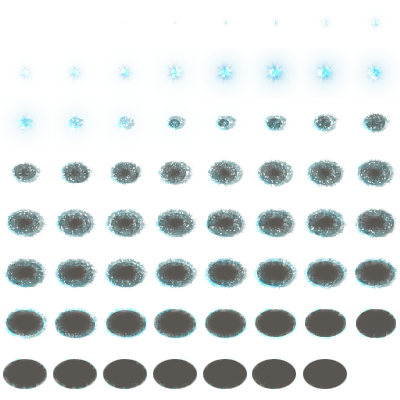
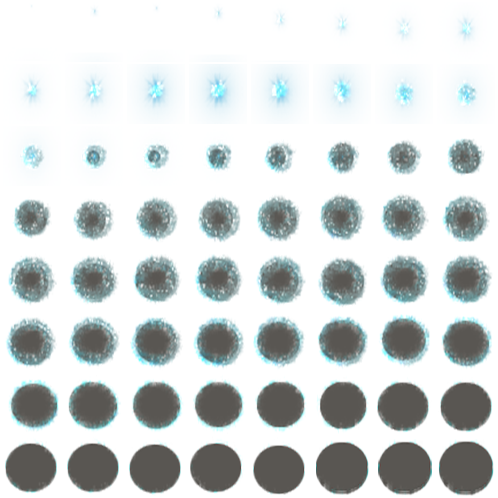
finished selection animations and scaled destroy anim

diff --git a/Bejewled/Bejewled.cs b/Bejewled/Bejewled.cs
@@ -20,40 +20,18 @@ namespace Game {
         public OnSpawnCallback OnSpawn = null;
         public delegate void FallCallback(Dictionary<Point, int> result, EaseAnimation.FinishedAnimationCallback finished);
         public FallCallback OnFall = null;
+        public delegate void OnSelectionCallback(int xIndex, int yIndex);
+        public OnSelectionCallback OnSelection = null;
         enum State { Idle, WaitSwap1, WaitSwap2,WaitDestroy1, WaitDestroy2,WaitFall1, WaitSpawn}
         State gameState = State.Idle;
+
         int[][] undoBoard = null;
-
-        public void RecordUndo() {
-            undoBoard = new int[logicBoard.Length][];
-            for (int i = 0; i < logicBoard.Length; ++i) {
-                undoBoard[i] = new int[logicBoard[i].Length];
-            }
-
-            for (int x = 0; x < logicBoard.Length; ++x) {
-                for (int y = 0; y < logicBoard[x].Length; ++y) {
-                    undoBoard[x][y] = logicBoard[x][y];
-                }
-            }
-        }
-
-        public void TriggerAnimFinished (){
-            AnimationFinished(default(Point), 0, null);
-        }
-
-        public void PerformUndo() {
-            for (int x = 0; x < logicBoard.Length; ++x) {
-                for (int y = 0; y < logicBoard[x].Length; ++y) {
-                    logicBoard[x][y] = undoBoard[x][y];
-                }
-            }
-        }
-
         public int[][] logicBoard = null;
         int tileSize = 60;
         Random r = null;
         int xOffset = 0;
         int yOffset = 0;
+
 #if DEBUG
         Brush[] debugJewels = new Brush[] { Brushes.Black, Brushes.Orange, Brushes.Purple, Brushes.Red, Brushes.Yellow, Brushes.Blue, Brushes.Green, Brushes.BurlyWood };
 #endif
@@ -81,6 +59,27 @@ namespace Game {
         bool hasSelection {
             get {
                 return oneSelected || twoSelected;
+            }
+        }
+
+        public void RecordUndo() {
+            undoBoard = new int[logicBoard.Length][];
+            for (int i = 0; i < logicBoard.Length; ++i) {
+                undoBoard[i] = new int[logicBoard[i].Length];
+            }
+
+            for (int x = 0; x < logicBoard.Length; ++x) {
+                for (int y = 0; y < logicBoard[x].Length; ++y) {
+                    undoBoard[x][y] = logicBoard[x][y];
+                }
+            }
+        }
+
+        public void PerformUndo() {
+            for (int x = 0; x < logicBoard.Length; ++x) {
+                for (int y = 0; y < logicBoard[x].Length; ++y) {
+                    logicBoard[x][y] = undoBoard[x][y];
+                }
             }
         }
 
@@ -143,6 +142,13 @@ namespace Game {
             }
             //
             RecordUndo();
+            if (OnSelection != null) {
+                OnSelection(-2, -1);
+            }
+        }
+
+        public void TriggerAnimFinished() {
+            AnimationFinished(default(Point), 0, null);
         }
 
         List<Point> CheckStreak(int col, int row) {
@@ -234,12 +240,14 @@ namespace Game {
                     xIndex1 = xIndex1 < logicBoard.Length ? MousePosition.X / tileSize : -1;
                     yIndex1 = (MousePosition.Y / tileSize);
                     yIndex1 = yIndex1 < logicBoard[0].Length ? MousePosition.Y / tileSize : -1;
+                    OnSelection(xIndex1, yIndex1);
                 }
                 else if (LeftMousePressed && !twoSelected) {
                     xIndex2 = ((MousePosition.X) / tileSize);
                     xIndex2 = xIndex1 < logicBoard.Length ? MousePosition.X / tileSize : -1;
                     yIndex2 = (MousePosition.Y / tileSize);
                     yIndex2 = yIndex2 < logicBoard[0].Length ? MousePosition.Y / tileSize : -1;
+                    
 
                     //checks to see if its a valid move
                     if (SelectionNeighbors()) {
@@ -248,6 +256,7 @@ namespace Game {
                         RecordUndo();
                         //visual swap
                         OnSwap(new Point(xIndex1, yIndex1), new Point(xIndex2, yIndex2), AnimationFinished, logicBoard[xIndex1][yIndex1], logicBoard[xIndex2][yIndex2]);
+                        OnSelection(-2, -1);
                         //logical swap
                         int _value = logicBoard[xIndex1][yIndex1];
                         logicBoard[xIndex1][yIndex1] = logicBoard[xIndex2][yIndex2];
@@ -263,6 +272,7 @@ namespace Game {
                         yIndex1 = yIndex2;
                         xIndex2 = -1;
                         yIndex2 = -1;
+                        OnSelection(xIndex1, yIndex1);
                     }
 
                 }
@@ -299,6 +309,7 @@ namespace Game {
                 else {
                     //Visual Swap
                     if (OnSwap != null) {
+                        OnSelection(-2, -1);
                         OnSwap(new Point(xIndex1, yIndex1), new Point(xIndex2, yIndex2), AnimationFinished, logicBoard[xIndex1][yIndex1], logicBoard[xIndex2][yIndex2]);
                     }
                     //  swap back to original
@@ -309,6 +320,7 @@ namespace Game {
                     gameState = State.WaitSwap2;
                     xIndex1 = xIndex2 = -1;
                     yIndex1 = yIndex2 = -1;
+                    OnSelection(-2, -1);
                 }
             }
             else if (gameState == State.WaitDestroy1) {
@@ -345,6 +357,7 @@ namespace Game {
                 //Deselect
                 xIndex1 = xIndex2 = -1;
                 yIndex1 = yIndex2 = -1;
+                OnSelection(-2, -1);
 
                 //check for streak
                 for (int x = 0; x < logicBoard.Length; x++) {
@@ -382,9 +395,6 @@ namespace Game {
                 }
             }
         }
-            
-
-        
 
         Dictionary<Point,int> Movedown() {
             Dictionary<Point,int> result = new Dictionary<Point,int>();

diff --git a/Bejewled/BejewledGraphics.cs b/Bejewled/BejewledGraphics.cs
@@ -15,27 +15,33 @@ namespace Game {
         List<EaseAnimation> lerp = null; 
         List<Sprite> icons = null;
         List<Point> destroyPos = null;
-        FlipBook cellExplode = null;
+        FlipBook explosionAnim = null;
+        FlipBook selectionAnim = null;
         
         int [][] graphicsBoard = null;
         int tileSize = 0;
         int xOffset = 0;
         int yOffset = 0;
+        Point selection = default(Point);
 
         public BejewledGraphics(int tileSize,int xOffset, int yOffset) {
             lerp = new List<EaseAnimation>();
-            cellExplode = FlipBook.LoadCustom("Assets/explosion.txt",60f);
             destroyPos = new List<Point>();
-            cellExplode.Playback = FlipBook.PlaybackStyle.Single;
-            cellExplode.Anchor = FlipBook.AnchorPosition.Center;
+            icons = new List<Sprite>();
+            explosionAnim = FlipBook.LoadCustom("Assets/explosion.txt",60f);
+            selectionAnim = FlipBook.LoadCustom("Assets/sparkles.txt");
+
+            selectionAnim.Playback = FlipBook.PlaybackStyle.Loop;
+            explosionAnim.Playback = FlipBook.PlaybackStyle.Single;
+            selectionAnim.Anchor = FlipBook.AnchorPosition.TopLeft;
+            explosionAnim.Anchor = FlipBook.AnchorPosition.Center;
             this.tileSize = tileSize;
             this.xOffset = xOffset;
             this.yOffset = yOffset;
-            icons = new List<Sprite>();
             for (int i = 0; i < 8; i++) {
                 icons.Add(new Sprite("Assets/icon_" +i+".png"));
             }
-            cellExplode.AnimationFinished += this.DoExplosionFinished;
+            explosionAnim.AnimationFinished += this.DoExplosionFinished;
         }
 
         public void DoFall(Dictionary<Point, int> result, EaseAnimation.FinishedAnimationCallback finished) {
@@ -53,7 +59,7 @@ namespace Game {
         }
 
         public void SetExplosionFinishedCallback(FlipBook.AnimationFinishedCallback Callback) {
-            cellExplode.AnimationFinished += Callback;
+            explosionAnim.AnimationFinished += Callback;
         }
 
         public void Initialize(int[][] board) {
@@ -100,8 +106,13 @@ namespace Game {
 
         }
 
+        public void DoSelection(int xIndex, int yIndex){
+            selection = new Point(xIndex*tileSize, yIndex*tileSize);
+        }
+
+
         public void DoDestroy(List<Point> streak){
-            cellExplode.Reset();
+            explosionAnim.Reset();
             destroyPos = streak;
         }
 
@@ -114,10 +125,12 @@ namespace Game {
             for (int i = lerp.Count - 1; i >= 0; i--) {
                 lerp[i].Update(dTime);
             }
-            cellExplode.Update(dTime);
+            explosionAnim.Update(dTime);
+            selectionAnim.Update(dTime);
         }
 
         public void Render(Graphics g) {
+            //Draw Icons
             for (int x = 0; x < graphicsBoard.Length; x++) {
                 for (int y = 0; y < graphicsBoard[x].Length; y++) {
                     int index = graphicsBoard[x][y];
@@ -126,6 +139,7 @@ namespace Game {
                     }
                 }
             }
+            //Animations for spawn
             //Console.WriteLine("num lerp: " + lerp.Count);
             foreach (EaseAnimation l in lerp) {
                 if (l.cellValue >= 0) {
@@ -137,9 +151,15 @@ namespace Game {
                     }
                 }
             }
+            // Animation for destroy
             foreach (Point p in destroyPos){
-                cellExplode.Render(g, new Point(p.X*tileSize + xOffset + (int)(cellExplode.W/2f), p.Y*tileSize+yOffset + (int)(cellExplode.H/2f)));
+                explosionAnim.Render(g, new Point(p.X*tileSize + xOffset + (int)(explosionAnim.W/2f)-2, p.Y*tileSize+yOffset + (int)(explosionAnim.H/2f-4)));
             }
+            //Anim for selection
+            selectionAnim.Render(g, new Point(selection.X + xOffset +3, selection.Y +yOffset+ 2));
+            selectionAnim.Render(g, new Point(selection.X + xOffset +15, selection.Y + yOffset+30));
+            selectionAnim.Render(g, new Point(selection.X + xOffset +34, selection.Y + yOffset+12));
+
         }
     }
 }

diff --git a/Bejewled/ScreenWindow.cs b/Bejewled/ScreenWindow.cs
@@ -35,6 +35,7 @@ namespace Game {
 
         public override void Initialize() {
             bejeweled.OnSpawn += graphics.DoSpawn;
+            bejeweled.OnSelection += graphics.DoSelection;
             bejeweled.Initialize(8);
             graphics.Initialize(bejeweled.logicBoard);
             //bejeweled.OnStreak += graphics.DoStreak;
